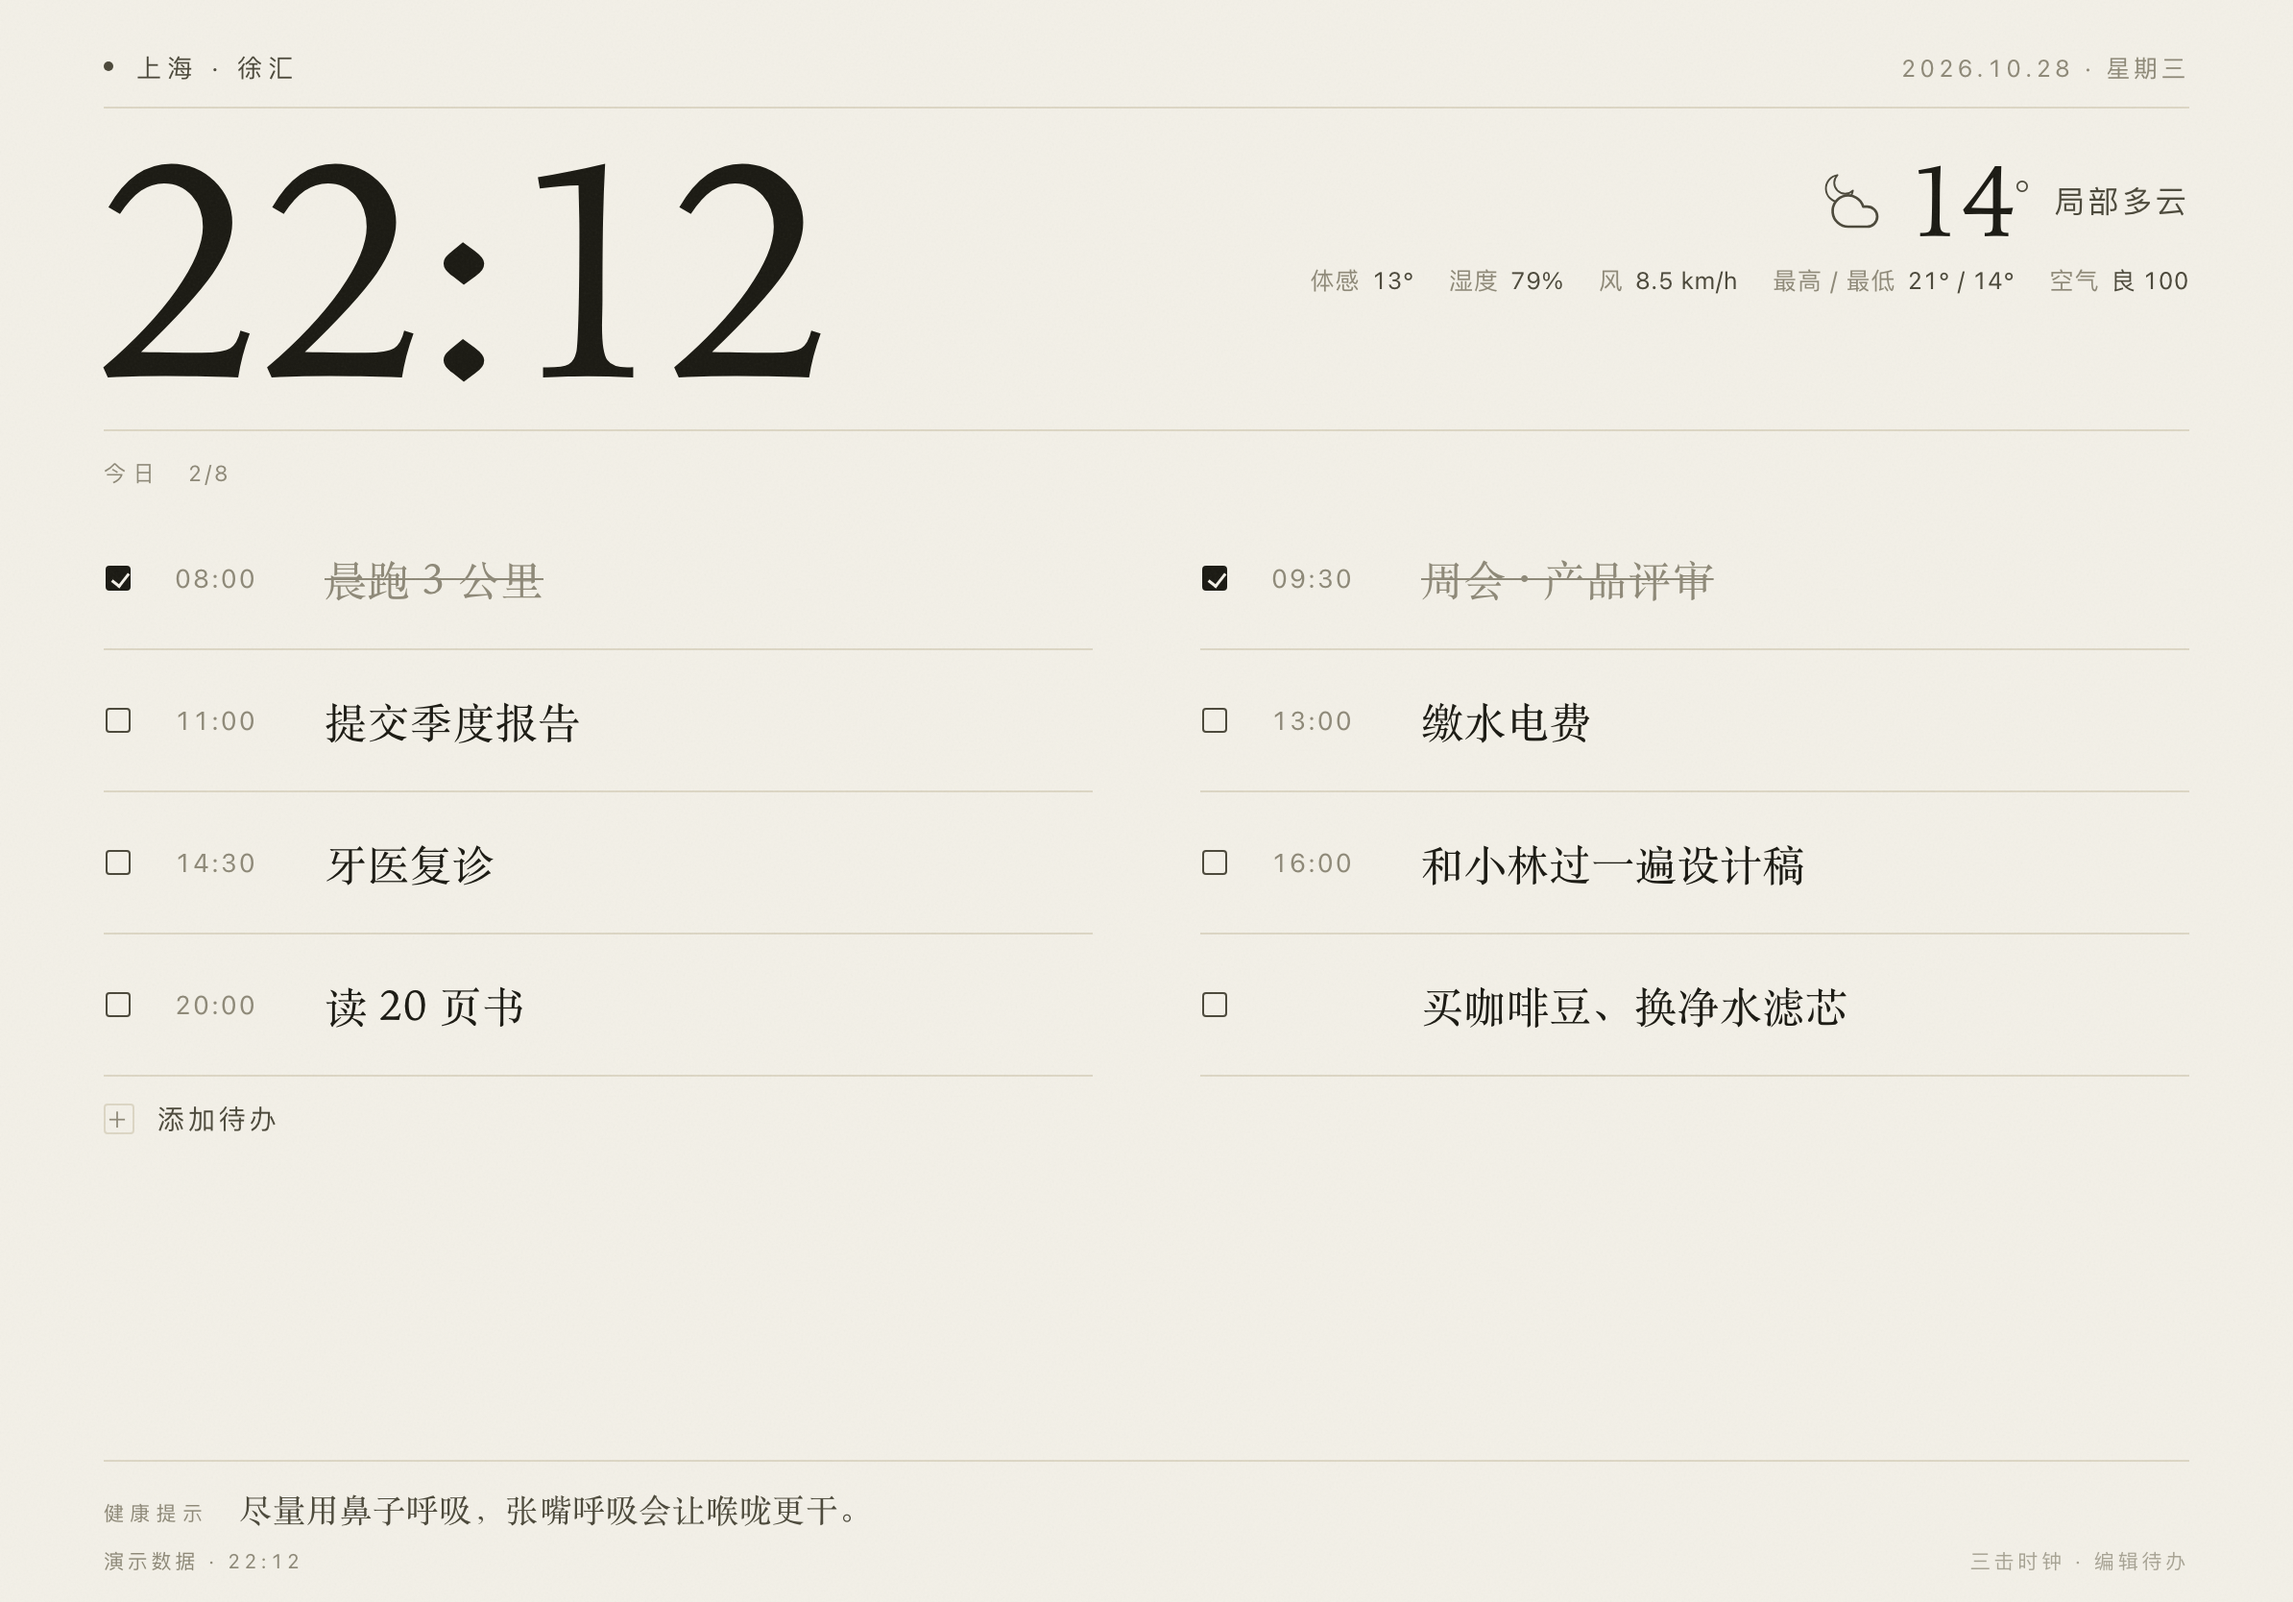
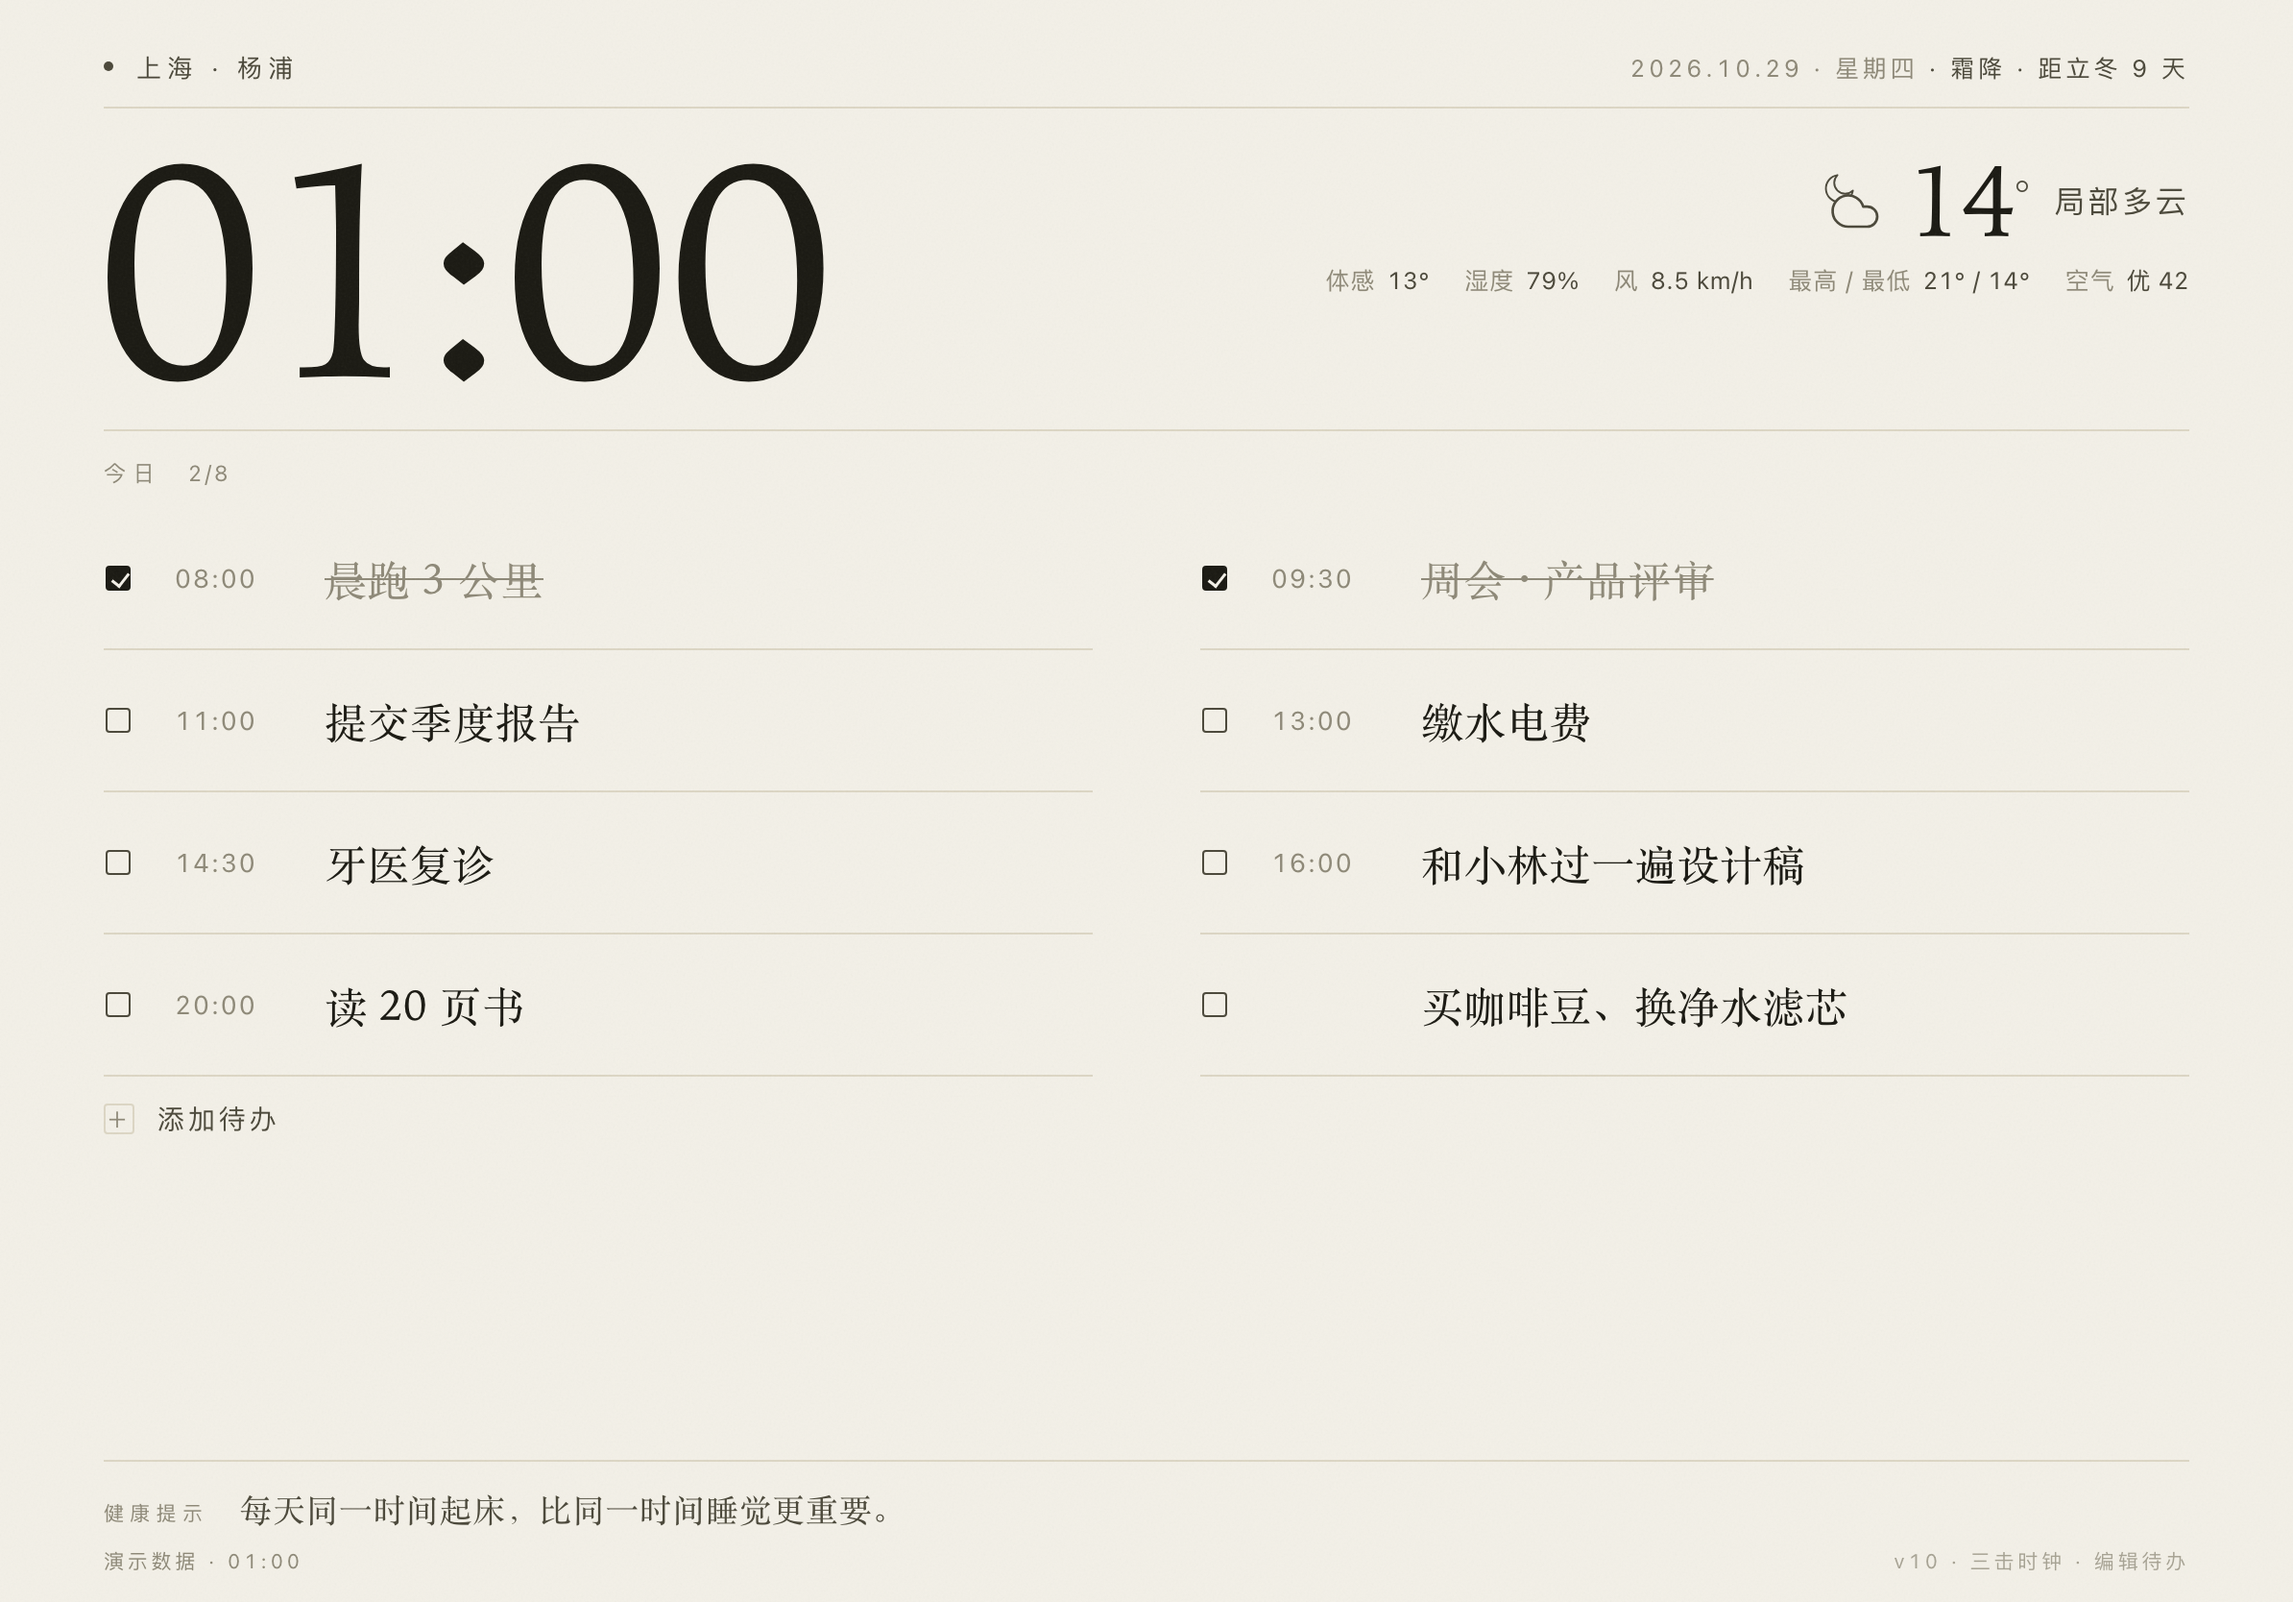
顶部日期行加入二十四节气与距下一节气天数（v10）

diff --git a/index.html b/index.html
@@ -69,6 +69,7 @@
   .loc{font-size:13px;letter-spacing:.24em;color:var(--ink-2);white-space:nowrap}
   .loc .mark{display:inline-block;width:5px;height:5px;border-radius:50%;background:var(--ink-2);vertical-align:3px;margin-right:12px}
   .daynum{font-size:12.5px;letter-spacing:.16em;color:var(--muted);font-variant-numeric:tabular-nums;white-space:nowrap}
+  .daynum .term{color:var(--ink-2)}
 
   /* ---------- 时间 + 天气 ---------- */
   #hero{
@@ -616,7 +617,7 @@
         { date: "2026-11-01", code: 2,  tmax: 20, tmin: 12 }
       ]
     },
-    aqi: { value: 100, pm: 57.5 },
+    aqi: { value: 42, pm: 15 },
     todos: [
       { time: "08:00", text: "晨跑 3 公里", done: true },
       { time: "09:30", text: "周会 · 产品评审", done: true },
@@ -629,7 +630,7 @@
     ]
   };
 
-  const BUILD = "v9";   // 改版时 +1，页脚可见，用来确认主屏 App 拿到的是哪一版
+  const BUILD = "v10";   // 改版时 +1，页脚可见，用来确认主屏 App 拿到的是哪一版
 
   const params = new URLSearchParams(location.search);
   const DEMO_MODE = params.has("demo");
@@ -758,6 +759,78 @@
   /* =====================================================================
      6. 时钟 / 日期 / 夜间
      ===================================================================== */
+  /* ---------- 二十四节气（Meeus 太阳视黄经，误差 <15 分钟） ---------- */
+  const TERM_NAMES = ["小寒","大寒","立春","雨水","惊蛰","春分","清明","谷雨","立夏","小满","芒种","夏至",
+                      "小暑","大暑","立秋","处暑","白露","秋分","寒露","霜降","立冬","小雪","大雪","冬至"];
+
+  function sunLon(jd) {
+    const T = (jd - 2451545.0) / 36525;
+    const L0 = 280.46646 + 36000.76983 * T + 0.0003032 * T * T;
+    const M = (357.52911 + 35999.05029 * T - 0.0001537 * T * T) * Math.PI / 180;
+    const C = (1.914602 - 0.004817 * T - 0.000014 * T * T) * Math.sin(M)
+            + (0.019993 - 0.000101 * T) * Math.sin(2 * M)
+            + 0.000289 * Math.sin(3 * M);
+    const om = (125.04 - 1934.136 * T) * Math.PI / 180;
+    const lon = L0 + C - 0.00569 - 0.00478 * Math.sin(om);
+    return ((lon % 360) + 360) % 360;
+  }
+
+  function lonDelta(jd, target) {
+    const d = sunLon(jd) - target;
+    return ((d + 180) % 360 + 360) % 360 - 180;
+  }
+
+  // year 年第 idx 个节气（小寒 = 0）的精确时刻，返回毫秒
+  function termInstant(year, idx) {
+    const target = (285 + idx * 15) % 360;
+    let jd = Date.UTC(year, 0, 1) / 86400000 + 2440587.5;
+    for (let i = 0; i < 366; i++) {
+      const d0 = lonDelta(jd, target), d1 = lonDelta(jd + 1, target);
+      if (d0 < 0 && d1 >= 0) {
+        let l = jd, h = jd + 1;
+        for (let k = 0; k < 40; k++) {
+          const m = (l + h) / 2;
+          if (lonDelta(m, target) < 0) l = m; else h = m;
+        }
+        return ((l + h) / 2 - 2440587.5) * 86400000;
+      }
+      jd += 1;
+    }
+    return NaN;
+  }
+
+  // 该节气在北京时间那一天的 00:00（用 UTC 毫秒表示，方便直接比日期）
+  function termDay(year, idx) {
+    const d = new Date(termInstant(year, idx) + 8 * 3600000);
+    return Date.UTC(d.getUTCFullYear(), d.getUTCMonth(), d.getUTCDate());
+  }
+
+  let termCache = { key: "", text: "" };
+  function termText() {
+    const p = nowParts();
+    const key = p.y + "-" + p.m + "-" + p.d;
+    if (termCache.key === key && termCache.text !== undefined) return termCache.text;
+
+    const today = Date.UTC(p.y, p.m - 1, p.d);
+    const list = [];
+    for (let i = 0; i < 24; i++) list.push({ t: termDay(p.y, i), i: i });
+    if (today < list[0].t) list.unshift({ t: termDay(p.y - 1, 23), i: 23 });
+    if (today >= list[list.length - 1].t) list.push({ t: termDay(p.y + 1, 0), i: 0 });
+
+    let prev = list[0], next = list[1];
+    for (let i = 0; i < list.length; i++) {
+      if (list[i].t <= today) prev = list[i];
+      else { next = list[i]; break; }
+    }
+    if (!next) next = prev;
+
+    const onDay = prev.t === today;
+    const days = Math.max(0, Math.round((next.t - today) / 86400000));
+    const text = (onDay ? "今日" : "") + TERM_NAMES[prev.i] + " · 距" + TERM_NAMES[next.i] + " " + days + " 天";
+    termCache = { key: key, text: text };
+    return text;
+  }
+
   let lastMinute = "";
 
   function renderClock(force) {
@@ -768,7 +841,8 @@
     lastMinute = hm;
 
     $("#clock").textContent = hm;
-    $("#daynum").textContent = p.y + "." + pad2(p.m) + "." + pad2(p.d) + " · " + p.wd;
+    $("#daynum").innerHTML = p.y + "." + pad2(p.m) + "." + pad2(p.d) + " · " + p.wd +
+      ' <span class="term">· ' + esc(termText()) + "</span>";
     $("#locName").textContent = CONFIG.location.name;
 
     applyNight(p.hh);
@@ -1639,6 +1713,7 @@
   const VER_KEY = "board.lastCheck";
 
   async function checkBuild() {
+    if (location.protocol === "file:") return;   // 本地双击打开时跳过
     const now = Date.now();
     if (now - (+readJSON(VER_KEY, 0) || 0) < 30 * 60000) return;
     writeJSON(VER_KEY, now);

diff --git a/README.md b/README.md
@@ -1,6 +1,6 @@
 # 墨水屏提示板 · iPad Pro 11"
 
-把闲置 iPad 变成一块常亮的桌面提示板，横屏摆在桌上或墙上。版面是单列自上而下：**顶部**地点与日期，**右上**今日天气，**中间**是**两列**的今日待办，**底部**健康提示与状态行——待办是主角。
+把闲置 iPad 变成一块常亮的桌面提示板，横屏摆在桌上或墙上。版面是单列自上而下：**顶部**地点与日期（含节气与“距下一节气还有几天”），**右上**今日天气，**中间**是**两列**的今日待办，**底部**健康提示与状态行——待办是主角。
 
 整个方案就是一个 HTML 文件：天气走免费接口，**待办全部存在这台 iPad 本地**。没有后端、没有账号、没有订阅。
 
@@ -144,7 +144,13 @@ location: { name: "上海 · 徐汇", lat: 31.1884, lon: 121.4336, tz: "Asia/Sha
 
 **备份**：统计页底部有「导出备份 / 恢复备份」。iPad 上导出会走系统分享面板，可以直接存进「文件」或 iCloud Drive；要在新设备上恢复，选那个 JSON 即可，会覆盖当前清单和全部历史。旁边一行会显示「上次备份：X 天前」，超过一个月没备份就去点一下。
 
-### 5. 健康提示
+### 5. 节气
+
+顶部日期行会带出**当前节气**和**距下一个节气还有几天**，例如 `2026.10.29 · 星期四 · 霜降 · 距立冬 9 天`；节气当天显示成「今日霜降」。
+
+它不联网、不查表，是页面里用 Meeus 太阳视黄经公式现算的（找黄经到达 15° 整数倍的时刻，再换算成北京时间），24 个节气都在里面，未来年份也能算，误差在十几分钟以内——只有恰好在午夜前后几分钟交节时才可能差一天。
+
+### 6. 健康提示
 
 `CONFIG.tips.list` 是纯文本数组，随便换成你自己的句子。`mode: "daily"` 每天换一条（更像纸），`"rotate"` 按 `rotateMinutes` 轮换。
 
@@ -162,7 +168,7 @@ conditional: [
 
 命中时页脚标签会从「健康提示」变成「**今日提醒**」，天气一刷新就跟着变；没有特殊情况才回到每日一句。
 
-### 6. 外观
+### 7. 外观
 
 ```js
 display: {
